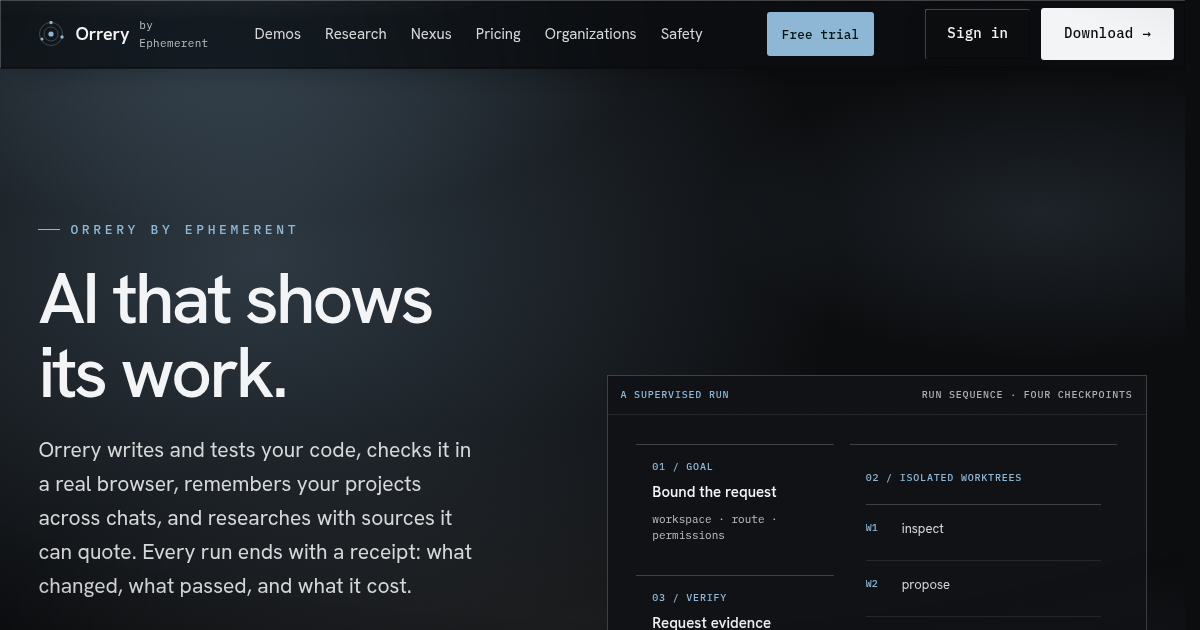
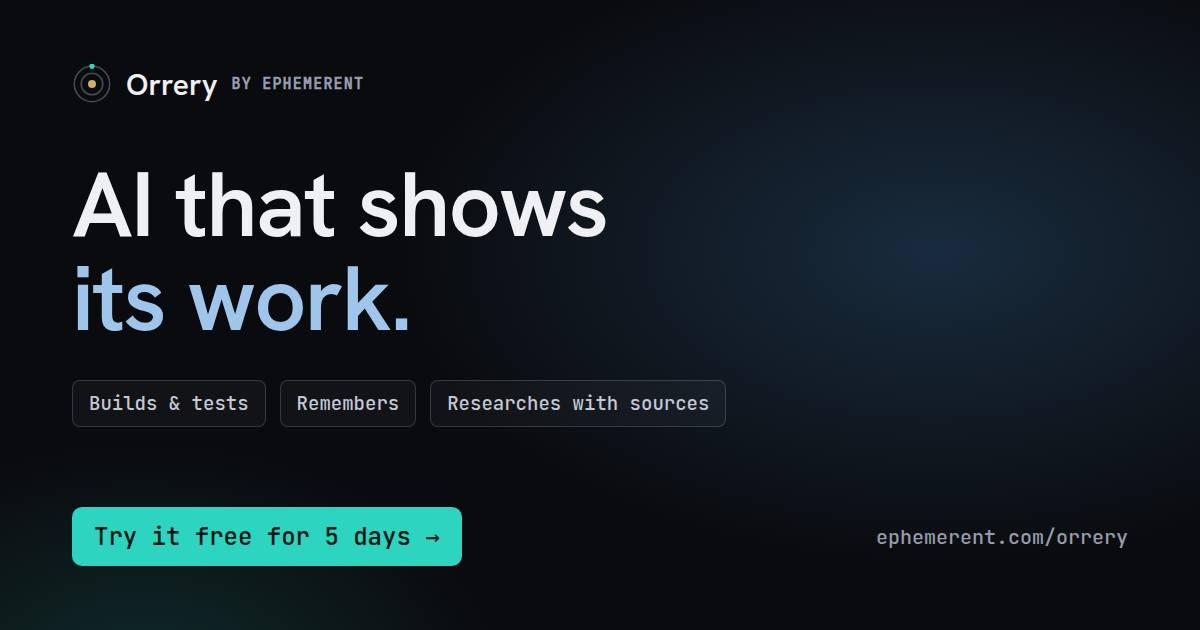
orrery: a share card that leads with the trial, and a Mac notify link

diff --git a/Orrery.html b/Orrery.html
@@ -17,16 +17,16 @@
 <meta property="og:title" content="Orrery: AI that shows its work. Try it free for 5 days.">
 <meta property="og:description" content="Build, remember, research: tested code, browser-checked pages, and research claims quoted from their sources, with a receipt for every run. 5 days free, then $40/month.">
 <meta property="og:url" content="https://ephemerent.com/orrery">
-<meta property="og:image" content="https://ephemerent.com/assets/og-orrery.png">
+<meta property="og:image" content="https://ephemerent.com/assets/og-orrery.png?v=20260924">
 <meta property="og:image:type" content="image/png">
 <meta property="og:image:width" content="1200">
 <meta property="og:image:height" content="630">
-<meta property="og:image:alt" content="Orrery Nexus — agent runs you can supervise">
+<meta property="og:image:alt" content="Orrery: AI that shows its work. Try it free for 5 days.">
 <meta property="og:locale" content="en_US">
 <meta name="twitter:card" content="summary_large_image">
 <meta name="twitter:title" content="Orrery: AI that shows its work. Try it free for 5 days.">
 <meta name="twitter:description" content="Tested code, browser-checked pages, and research you can check, with a receipt for every run. 5 days free.">
-<meta name="twitter:image" content="https://ephemerent.com/assets/og-orrery.png">
+<meta name="twitter:image" content="https://ephemerent.com/assets/og-orrery.png?v=20260924">
 <!-- include: head-theme -->
 <!-- Blocking and inline on purpose: the stored face has to be on <html>
      before the first stylesheet, or the page paints the wrong one first. -->
@@ -134,7 +134,7 @@ if(!matchMedia("(prefers-reduced-motion: reduce)").matches)d.className+=" arrive
         <a class="btn btn-primary" href="/signin?next=%2Fcloud%3Fstart%3Dpro">Start your 5-day free trial <span aria-hidden="true">→</span></a>
         <a class="btn btn-ghost" href="#demos">Watch it work</a>
       </div>
-      <p class="hero-trial reveal in d3"><b>5 days free</b>, then $40/month. Cancel anytime. Windows &amp; Linux (ARM64) today; Mac next.</p>
+      <p class="hero-trial reveal in d3"><b>5 days free</b>, then $40/month. Cancel anytime. Windows &amp; Linux (ARM64) today; <a href="mailto:kt@ephemerent.com?subject=Tell%20me%20when%20Orrery%20is%20on%20Mac&amp;body=Please%20email%20me%20when%20Orrery%20for%20Mac%20is%20ready." style="color:inherit;text-decoration:underline;text-underline-offset:3px;">Mac next (get notified)</a>.</p>
       <div class="hero-providers reveal in d4">
         <span class="mono">works with</span>
         <span class="prov prov-local">Arbiter 27B</span><span class="prov">Doubleword</span><span class="prov">Nexus Cloud</span><span class="prov">Proof Vault</span><span class="prov">Managed Connectors</span>
@@ -502,7 +502,7 @@ if(!matchMedia("(prefers-reduced-motion: reduce)").matches)d.className+=" arrive
     <div class="faq-list reveal d1">
       <details class="faq"><summary>What leaves my machine?</summary><div class="faq-body">When you run a hosted route, the prompt and code context needed for that completion pass through Orrery Cloud to the configured provider. Usage counters store totals and timestamps; Ephemerent does not retain relay content beyond fulfilling the request or use it to train its own models. See the privacy policy for the full boundary.</div></details>
       <details class="faq"><summary>Is there a free trial?</summary><div class="faq-body">Yes. Pro is free for 5 days, with its hosted credits, agent runs, and deep research. Checkout asks for a card but charges $0 today; cancel before the trial ends and you are not charged. After 5 days it becomes $40/month.</div></details>
-      <details class="faq"><summary>Which platforms are supported?</summary><div class="faq-body">Windows (x64) and Linux (ARM64) today; Linux x64 and macOS are next. Linux installs update themselves. The Windows build is not code-signed yet, so Windows may show &ldquo;Windows protected your PC&rdquo; the first time: choose <b>More info</b>, then <b>Run anyway</b>.</div></details>
+      <details class="faq"><summary>Which platforms are supported?</summary><div class="faq-body">Windows (x64) and Linux (ARM64) today; Linux x64 and macOS are next (<a href="mailto:kt@ephemerent.com?subject=Tell%20me%20when%20Orrery%20is%20on%20Mac">email me to be told when Mac is ready</a>). Linux installs update themselves. The Windows build is not code-signed yet, so Windows may show &ldquo;Windows protected your PC&rdquo; the first time: choose <b>More info</b>, then <b>Run anyway</b>.</div></details>
       <details class="faq"><summary>Can I use Orrery without subscribing?</summary><div class="faq-body">You can inspect preview setup, open Nexus, prepare a workspace, and configure routes. Agent runs and research need the free trial, a subscription, or an invite.</div></details>
       <details class="faq"><summary>Which hosted routes are included?</summary><div class="faq-body">Pro, Max, and Ultra include monthly <a href="/arbiter">Arbiter 27B</a> and Doubleword credits at the amounts shown above. Routes and capacity remain subject to provider availability.</div></details>
       <details class="faq"><summary>How is the winning attempt chosen?</summary><div class="faq-body">By execution, not impression. Each attempt is run against your tests, type-checks, and lint; an automatic reviewer scores them and keeps the winner before merging it back.</div></details>
